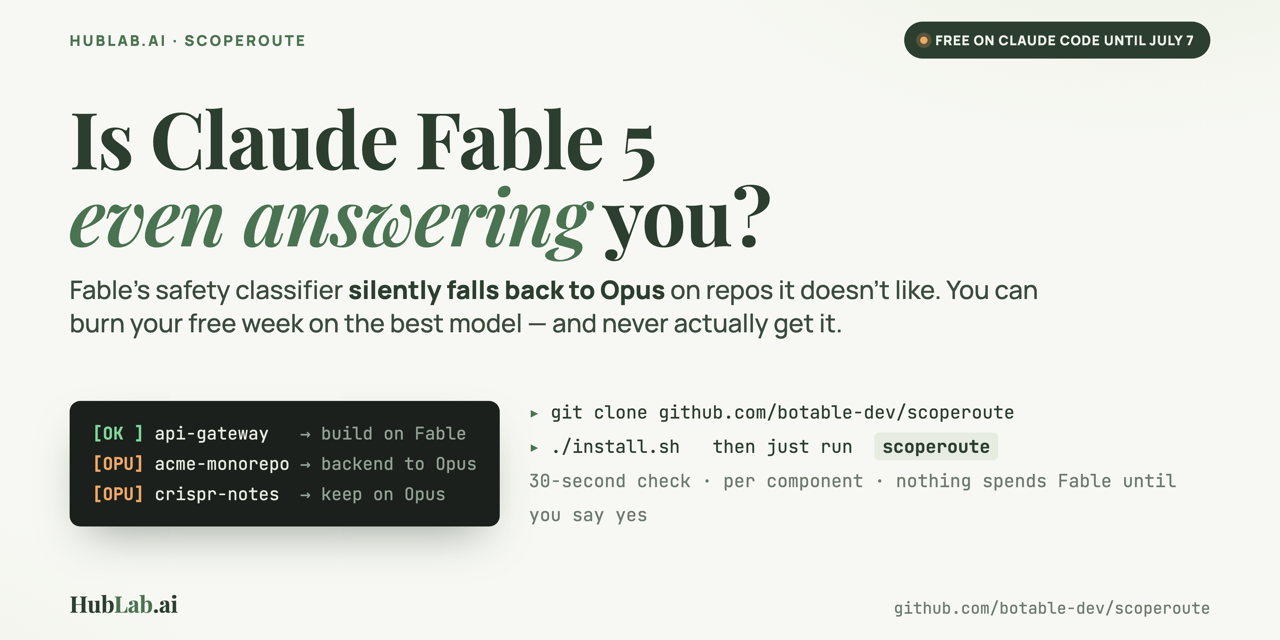
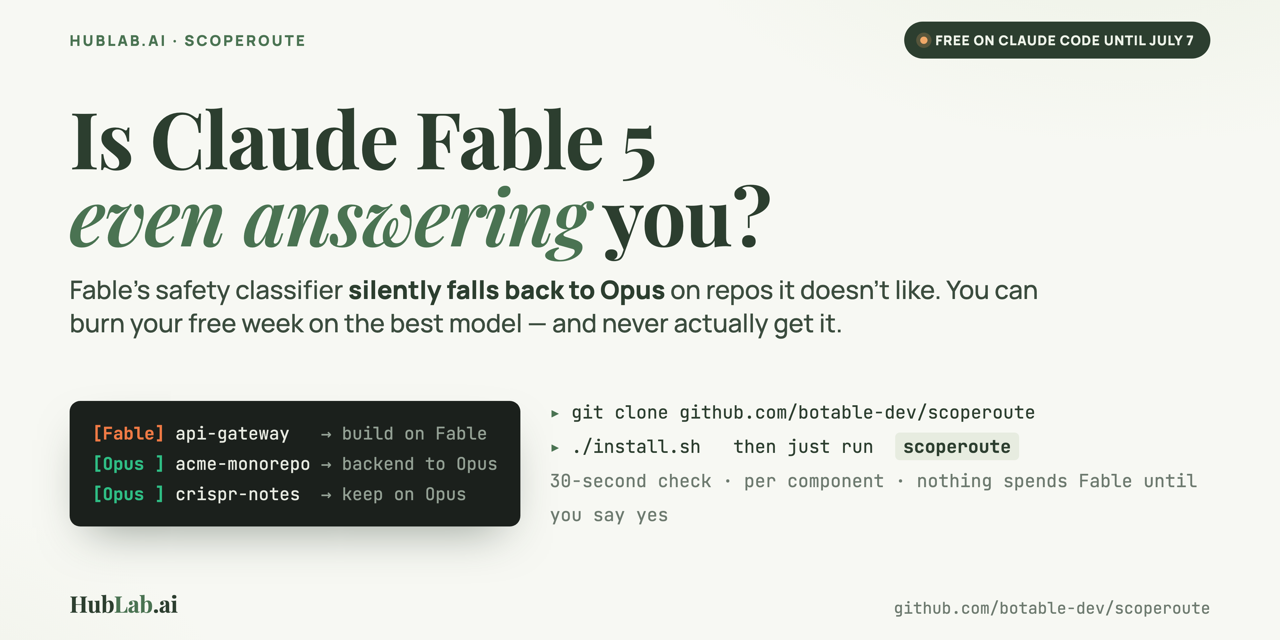
style: model color-coding + explicit verdict labels (Anthropic convention)
- Flip the mark colors to match Anthropic's benchmarks: Fable = orange,
  Opus = green (was reversed). CLI colors by verdict, TTY-guarded (piped
  output stays plain). Visuals (hero/16:9/ig-hook) re-rendered.
- Replace cryptic marks (OK/OPU/?/INC/FIX/ERR) with explicit words:
  [Fable] [Opus] [Reword] [Review] [Re-run] [Error]. No verdict shows a
  bare '?' anymore.

Claude-Session: https://claude.ai/code/session_013LhexKEp9r42iTY43xcsbh

Changed region(s): [[0.0625, 0.625, 0.9375, 0.8438]]

diff --git a/skills/scoperoute/scripts/scoperoute.py b/skills/scoperoute/scripts/scoperoute.py
@@ -67,6 +67,33 @@ ADJUDICATOR_MODEL = M.ADJUDICATOR.id
 VERSION = "0.3.0"        # real-code probe (--probe code) + default fable-docs stage
 SCHEMA_VERSION = 2       # bump when a JSONL record's shape changes (rec #4)
 
+# Console mark colors, aligned to Anthropic's model coding (Fable = orange, Opus = green).
+# Colored by VERDICT (not by the label text, so labels can change freely) and only on a
+# TTY — piped output stays plain text so the CSV/parsers see no escape codes.
+_FABLE_ORANGE = "\033[38;2;239;122;69m"
+_OPUS_GREEN = "\033[38;2;47;190;133m"
+_ANSI_RESET = "\033[0m"
+_FABLE_VERDICTS = {"fable_friendly", "predicted_safe", "config_overtrigger"}
+_OPUS_VERDICTS = {"config_sensitive", "code_overtrigger", "code_sensitive", "predicted_risky"}
+
+
+def mark_tag(verdict: str) -> str:
+    """The fixed-width console mark for a verdict ([Fable]/[Opus]/[Review]/…), colored by
+    model convention on a TTY: Fable = orange, Opus = green. Unknown verdicts show their
+    own name — never a cryptic symbol."""
+    tag = MARK.get(verdict, verdict[:6].ljust(6))
+    if not sys.stdout.isatty():
+        return tag
+    if verdict in _FABLE_VERDICTS:
+        c = _FABLE_ORANGE
+    elif verdict in _OPUS_VERDICTS:
+        c = _OPUS_GREEN
+    elif verdict == "error":
+        c = "\033[31m"
+    else:
+        c = "\033[90m"          # ambiguous / incomplete / unconfirmed
+    return f"{c}{tag}{_ANSI_RESET}"
+
 # Benign, non-security instruction: any refusal is attributable to the CONTEXT,
 # not the request. (Verbatim from the v0 engine — satisfies FR1.)
 BENIGN_INSTRUCTION = (
@@ -789,7 +816,7 @@ def run_batch(client_backend, projects, args, jsonl_path, done) -> list[dict]:
         stamp_row(row, run_meta)
         _append_jsonl(jsonl_path, row)
         records.append(row)
-        print(f"  [{MARK.get(verdict, '?  ')}] {p.name:<34} {verdict}")
+        print(f"  [{mark_tag(verdict)}] {p.name:<34} {verdict}")
     return records
 
 
@@ -862,7 +889,7 @@ def _append_jsonl(path: Path, record: dict) -> None:
 
 def _emit(project: Path, verdict: str) -> None:
     with _LOCK:
-        print(f"  [{MARK.get(verdict, '?  ')}] {project.name:<34} {verdict}")
+        print(f"  [{mark_tag(verdict)}] {project.name:<34} {verdict}")
 
 
 def run_live(backend, projects, args, jsonl_path) -> list[dict]:

diff --git a/skills/scoperoute/scripts/verdicts.py b/skills/scoperoute/scripts/verdicts.py
@@ -111,9 +111,12 @@ RECOMMENDATIONS = {
         "confirm `claude` is logged in and the model id is available.",
 }
 
-# verdict -> 3-char console tag.
-MARK = {"fable_friendly": "OK ", "config_overtrigger": "FIX", "config_sensitive": "OPU",
-        "config_ambiguous": "?  ", "code_overtrigger": "OPU", "code_sensitive": "OPU",
-        "code_ambiguous": "?  ", "config_triggered": "?  ", "code_triggered": "?  ",
-        "incomplete": "INC", "predicted_safe": "OK ", "predicted_risky": "OPU",
-        "predicted_review": "?  ", "error": "ERR"}
+# verdict -> console tag: an explicit word (no cryptic ?/INC/FIX), padded to a fixed 6-char
+# width for column alignment. The word names the action: Fable (build on Fable) / Opus
+# (route to Opus) / Reword (rework CLAUDE.md wording) / Review (controls split — look closer)
+# / Re-run (unconfirmed or capped — re-probe) / Error. Colored by scoperoute.mark_tag.
+MARK = {"fable_friendly": "Fable ", "config_overtrigger": "Reword", "config_sensitive": "Opus  ",
+        "config_ambiguous": "Review", "code_overtrigger": "Opus  ", "code_sensitive": "Opus  ",
+        "code_ambiguous": "Review", "config_triggered": "Re-run", "code_triggered": "Re-run",
+        "incomplete": "Re-run", "predicted_safe": "Fable ", "predicted_risky": "Opus  ",
+        "predicted_review": "Review", "error": "Error "}